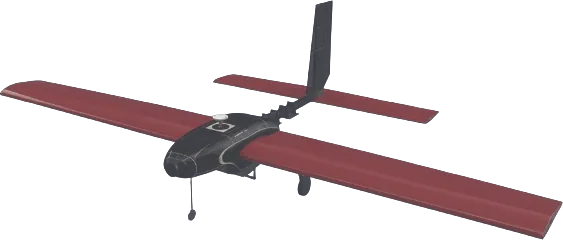
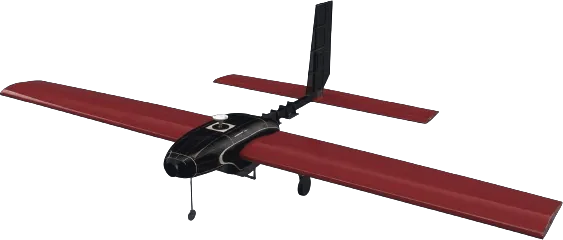
Repaint the scene on theme toggle; rework light-mode shadows and grade
THEME TOGGLE DID NOTHING UNTIL A RELOAD
With frameloop="demand" the render loop is asleep exactly when someone
reaches for the theme toggle — they are holding still. Nothing redraws until
something asks, so the scene sat in its old colours until the next scroll.

Each palette consumer did call invalidate() from its own effect, but that
correctness rests on every one of them remembering to, and it breaks for
anything that reads the theme inside useFrame rather than holding it in a
material — the new aircraft shadows are exactly that: opacity written per
frame, so no frame meant no update.

ThemeRepaint now asks centrally, which removes the requirement from every
consumer. It asks across four consecutive frames rather than one, because
sibling effects commit in tree order and a lone invalidate can be spent on a
frame drawn before another consumer has swapped its colour. Four frames on a
toggle is free and unconditionally correct.

NO POLE SHADOWS IN LIGHT MODE
A pole is a thin stick, so its shadow is a small dark ellipse with nothing
above it wide enough to explain it. Invisible on the near-black floor; on the
pale one, a dozen of them scattered down the journey read as smudges. The
aircraft keep theirs, because those are silhouette-shaped and sit under
something big enough to justify them. Dark mode is unchanged — poles keep
their shadows there, at the same 0.5 as before.

VEHICLES WERE WASHED OUT IN LIGHT MODE
[…]

Changed region(s): [[0.0, 0.0, 1.0, 1.0], [0.3321, 0.875, 0.3623, 0.9333]]

diff --git a/src/components/history/JourneyScene.tsx b/src/components/history/JourneyScene.tsx
@@ -42,6 +42,7 @@ import {
   QUALITY,
   scenePalette,
   shadowOpacity,
+  showPoleShadows,
   type QualitySettings,
   type ScenePalette,
 } from "./sceneConfig";
@@ -183,6 +184,47 @@ function SceneBackground({ palette }: { palette: ScenePalette }) {
   return null;
 }
 
+/**
+ * Repaints the whole canvas when the theme flips.
+ *
+ * ─── WHY A SINGLE invalidate() ISN'T ENOUGH ─────────────────────────────────
+ * With `frameloop="demand"` the render loop is asleep whenever the reader is
+ * holding still — which is exactly when someone reaches for the theme toggle.
+ * Nothing redraws until something asks, so the scene sits there in its old
+ * colours until the next scroll. That is the "it only changes if I refresh"
+ * symptom.
+ *
+ * Every palette consumer does call invalidate() from its own effect, but that
+ * correctness rests on each one remembering to — and it breaks down for
+ * anything that reads the theme inside useFrame instead of holding it in a
+ * material, because there is no palette effect to hang the call on. The
+ * aircraft shadows are exactly that case: their opacity is written per frame,
+ * so with no frame, no update.
+ *
+ * Asking centrally removes the requirement from every consumer. Asking across
+ * a HANDFUL of consecutive frames, rather than one, also removes an ordering
+ * question: sibling effects commit in tree order, so a lone invalidate fired
+ * here can be spent on a frame drawn before another consumer has swapped its
+ * colour. Four frames on a theme toggle costs nothing and is unconditionally
+ * correct.
+ */
+function ThemeRepaint({ palette }: { palette: ScenePalette }) {
+  const invalidate = useThree((state) => state.invalidate);
+
+  useEffect(() => {
+    let drawn = 0;
+    let raf = 0;
+    const pump = () => {
+      invalidate();
+      if (++drawn < 4) raf = requestAnimationFrame(pump);
+    };
+    pump();
+    return () => cancelAnimationFrame(raf);
+  }, [palette, invalidate]);
+
+  return null;
+}
+
 interface JourneySceneProps {
   achievements: Achievement[];
   progressRef: React.MutableRefObject<number>;
@@ -214,6 +256,7 @@ export default function JourneyScene({
   // Shadows are far weaker in light mode — a 0.5 black pool that reads as
   // grounding on a near-black floor is an ink stain on a near-white one.
   const shadowAlpha = useMemo(() => shadowOpacity(isDark), [isDark]);
+  const poleShadows = useMemo(() => showPoleShadows(isDark), [isDark]);
 
   // Geometry is derived from the CONTENT, so editing achievements.ts reshapes
   // the path automatically — no hand-placed coordinates anywhere.
@@ -375,6 +418,7 @@ export default function JourneyScene({
       <directionalLight position={[12, 24, 8]} intensity={1.5} color="#cfe0ff" />
 
       <SceneBackground palette={palette} />
+      <ThemeRepaint palette={palette} />
 
       <SceneController
         curve={journey.curve}
@@ -427,6 +471,7 @@ export default function JourneyScene({
         pathLength={journey.length}
         palette={palette}
         shadowOpacity={shadowAlpha}
+        showPoleShadows={poleShadows}
       />
 
       <VehicleShadows

diff --git a/src/components/history/sceneConfig.ts b/src/components/history/sceneConfig.ts
@@ -118,13 +118,42 @@ export function scenePalette(isDark: boolean): ScenePalette {
  * fudge — it's closer to correct.
  */
 export const SHADOW = {
+  /**
+   * ⬅ SHADOW STRENGTH ON THE DARK SCENE. Applies to both the pole shadows and
+   * the aircraft silhouettes.
+   */
   darkOpacity: 0.5,
-  lightOpacity: 0.12,
+  /**
+   * ⬅ SHADOW STRENGTH IN LIGHT MODE. Only the aircraft have shadows there (see
+   * `poleShadowsInLight`), so this is the aircraft dial. Raise it for heavier
+   * shadows, lower it for fainter.
+   */
+  lightOpacity: 0.25,
+  /**
+   * Whether the flag poles cast shadows in LIGHT mode.
+   *
+   * Off, deliberately. A pole is a thin stick, so its shadow is a small dark
+   * ellipse with nothing above it wide enough to explain it. On the near-black
+   * floor that's invisible; on the pale one, a dozen of them scattered across
+   * the journey read as smudges on the floor rather than shadows.
+   *
+   * The aircraft keep theirs because those are silhouette-shaped and sit under
+   * an object big enough to justify them — they still do their job, which is
+   * proving the aircraft is standing on the ground.
+   *
+   * Dark mode is unaffected: poles keep their shadows there.
+   */
+  poleShadowsInLight: false,
 } as const;
 
 /** Shadow strength for the active theme. */
 export function shadowOpacity(isDark: boolean): number {
   return isDark ? SHADOW.darkOpacity : SHADOW.lightOpacity;
+}
+
+/** Whether the flag poles should cast shadows in the active theme. */
+export function showPoleShadows(isDark: boolean): boolean {
+  return isDark || SHADOW.poleShadowsInLight;
 }
 
 /**

diff --git a/src/components/history/StopProps.tsx b/src/components/history/StopProps.tsx
@@ -118,6 +118,12 @@ interface StopPropsProps {
   palette: ScenePalette;
   /** Ground-shadow strength for the active theme (see SHADOW in sceneConfig). */
   shadowOpacity: number;
+  /**
+   * Whether the POLES cast shadows. False in light mode: a pole's shadow is a
+   * small dark ellipse with nothing above it wide enough to explain it, which
+   * on the pale floor reads as a smudge. See SHADOW.poleShadowsInLight.
+   */
+  showPoleShadows: boolean;
 }
 
 export default function StopProps({
@@ -127,6 +133,7 @@ export default function StopProps({
   pathLength,
   palette,
   shadowOpacity,
+  showPoleShadows,
 }: StopPropsProps) {
   const invalidate = useThree((state) => state.invalidate);
   const polesRef = useRef<InstancedMesh>(null);
@@ -296,7 +303,7 @@ export default function StopProps({
       {/* Fake contact shadows. A real shadow map would re-render the scene from
           the light's viewpoint every frame; at this camera angle a soft dark
           ellipse is indistinguishable and effectively free. */}
-      {quality.blobShadows && (
+      {quality.blobShadows && showPoleShadows && (
         <instancedMesh
           ref={shadowsRef}
           args={[undefined, undefined, layout.shadows.length]}

diff --git a/art-source/grade.py b/art-source/grade.py
@@ -1,0 +1,61 @@
+from PIL import Image, ImageFilter
+import numpy as np
+
+def defringe(im):
+    """Undo compositing over white. This is what killed the sticker look and
+    it must survive into BOTH grades — brightness was never the cause."""
+    a = np.asarray(im).astype(np.float32)
+    rgb, alpha = a[..., :3].copy(), a[..., 3:4] / 255.0
+    m = (alpha[..., 0] > 0.02) & (alpha[..., 0] < 0.98)
+    rgb[m] = (rgb[m] - 255.0 * (1.0 - alpha[m])) / np.maximum(alpha[m], 1e-3)
+    return np.clip(rgb, 0, 255), alpha
+
+L = np.array([0.299, 0.587, 0.114], dtype=np.float32)
+
+def grade(rgb, sat, gamma, ambient, tint, exposure):
+    lum = rgb @ L
+    rgb = lum[..., None] + (rgb - lum[..., None]) * sat
+    rgb = 255.0 * np.power(np.clip(rgb, 0, 255) / 255.0, gamma)
+    lum2 = rgb @ L
+    w = (np.power(1.0 - lum2 / 255.0, 1.5) * tint)[..., None]
+    rgb = rgb * (1.0 - w) + ambient * w
+    return np.clip(rgb * exposure, 0, 255)
+
+# Dark scene (#07091c): ambient is deep navy, exposure pulled down.
+DARK = dict(sat=0.88, gamma=1.12, ambient=np.array([0x23,0x2a,0x55], np.float32),
+            tint=0.35, exposure=0.90)
+# Light scene (#f7f8ff ground #e8e8f9): ambient is a pale cool bounce, and the
+# darks get LIFTED toward it — on a white floor an unlit object still receives
+# a lot of bounced light, and crushing it to black is what makes it a blob.
+# Lifting the darks toward a pale bounce at 0.30 washed all the contrast out —
+# the aircraft went grey and flat. Ambient fill is real but small: keep the
+# render's own tonal range, just don't darken it for a night scene.
+LIGHT = dict(sat=0.97, gamma=1.0, ambient=np.array([0x8a,0x93,0xb0], np.float32),
+             tint=0.10, exposure=1.15)
+
+for name, size, q in (("do3soka", (563, 563), 82), ("itay", (400, 400), 84)):
+    src = Image.open(f"art-source/vehicles/{name}.png").convert("RGBA")
+    src = src.crop(src.getbbox())
+    rgb0, alpha = defringe(src)
+    solid = alpha[..., 0] >= 0.95
+    for suffix, cfg in (("", DARK), ("-light", LIGHT)):
+        rgb = grade(rgb0.copy(), **cfg)
+        out = Image.fromarray(
+            np.concatenate([rgb, alpha * 255.0], -1).astype(np.uint8), "RGBA")
+        out.thumbnail(size, Image.LANCZOS)
+        out.save(f"public/history/vehicles/{name}{suffix}.webp", "WEBP",
+                 quality=q, method=6)
+        print(f"  {name}{suffix}: {out.size} luminance {(rgb@L)[solid].mean():.1f}")
+
+    # SHADOW MASK: the aircraft's own silhouette, squashed as though seen from
+    # above and blurred into a soft pool. An ellipse under a fixed-wing reads
+    # wrong; its actual outline does not.
+    sil = (alpha[..., 0] * 255).astype(np.uint8)
+    m = Image.fromarray(sil, "L")
+    w0, h0 = m.size
+    m = m.resize((256, max(1, int(256 * h0 / w0 * 0.55))), Image.LANCZOS)
+    m = m.filter(ImageFilter.GaussianBlur(radius=max(2, m.size[0] // 40)))
+    Image.merge("RGB", (m, m, m)).save(
+        f"public/history/vehicles/{name}-shadow.webp", "WEBP",
+        quality=70, method=6)
+    print(f"  {name}-shadow: {m.size}")
